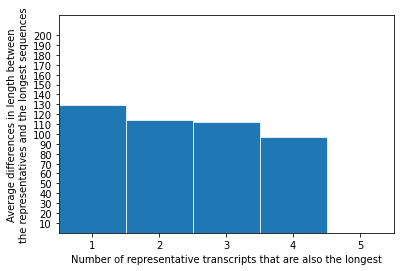
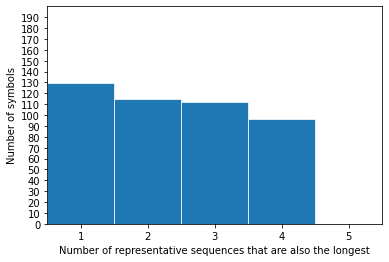
Change ylabel of plots

Changed region(s): [[0.0, 0.0, 1.0, 0.9771]]

diff --git a/testing/plot.py b/testing/plot.py
@@ -206,8 +206,8 @@ def getAverageScoreDifference(directory):
             sopScores = getSopScores(sopScoreFile)
             scoreDifference = int(sopScores[0]) - int(sopScores[1])
             
-            if scoreDifference < 0:
-                casesList[index].append(scoreDifference*(-1))
+            if scoreDifference >= 0:
+                casesList[index].append(scoreDifference*(1))
                 
         except:
             continue #skip simulations where there is no sop.txt file because all of its representatives are also the longest sequences.
@@ -264,8 +264,8 @@ def main():
     
     x = [1,2,3,4,5]
     # y = gatherRepresentativeIsLongestData(simulationDirectory)
-    # y = getRepLongestLengthDifferenceAverage(simulationDirectory)
-    y = getAverageScoreDifference(simulationDirectory)
+    y = getRepLongestLengthDifferenceAverage(simulationDirectory)
+    # y = getAverageScoreDifference(simulationDirectory)
     print(y)
     
     fig, ax = plt.subplots()
@@ -274,12 +274,12 @@ def main():
     
     ax.set(xlim=(0.5,5.5), xticks=list(range(1,6)),
             # ylim=(0,220), yticks=np.arange(10,200,10))
-            ylim=(0,9500), yticks=np.arange(0,9500,1000))
+            ylim=(0,200), yticks=np.arange(0,200,10))
     
-    plt.xlabel("Number of representative transcripts that are also the longest")
+    plt.xlabel("Number of representative sequences that are also the longest")
     # plt.ylabel("Number of simulations")
-    # plt.ylabel("Average differences in length between\nthe representatives and the longest sequences")
-    plt.ylabel("Average difference in sum-of-pairs score\nbetween the MSAs of the representatives\nand the longest sequences")
+    plt.ylabel("Number of symbols")
+    # plt.ylabel("Points")
     
     # plt.savefig("plot1.png")
     plt.show()
